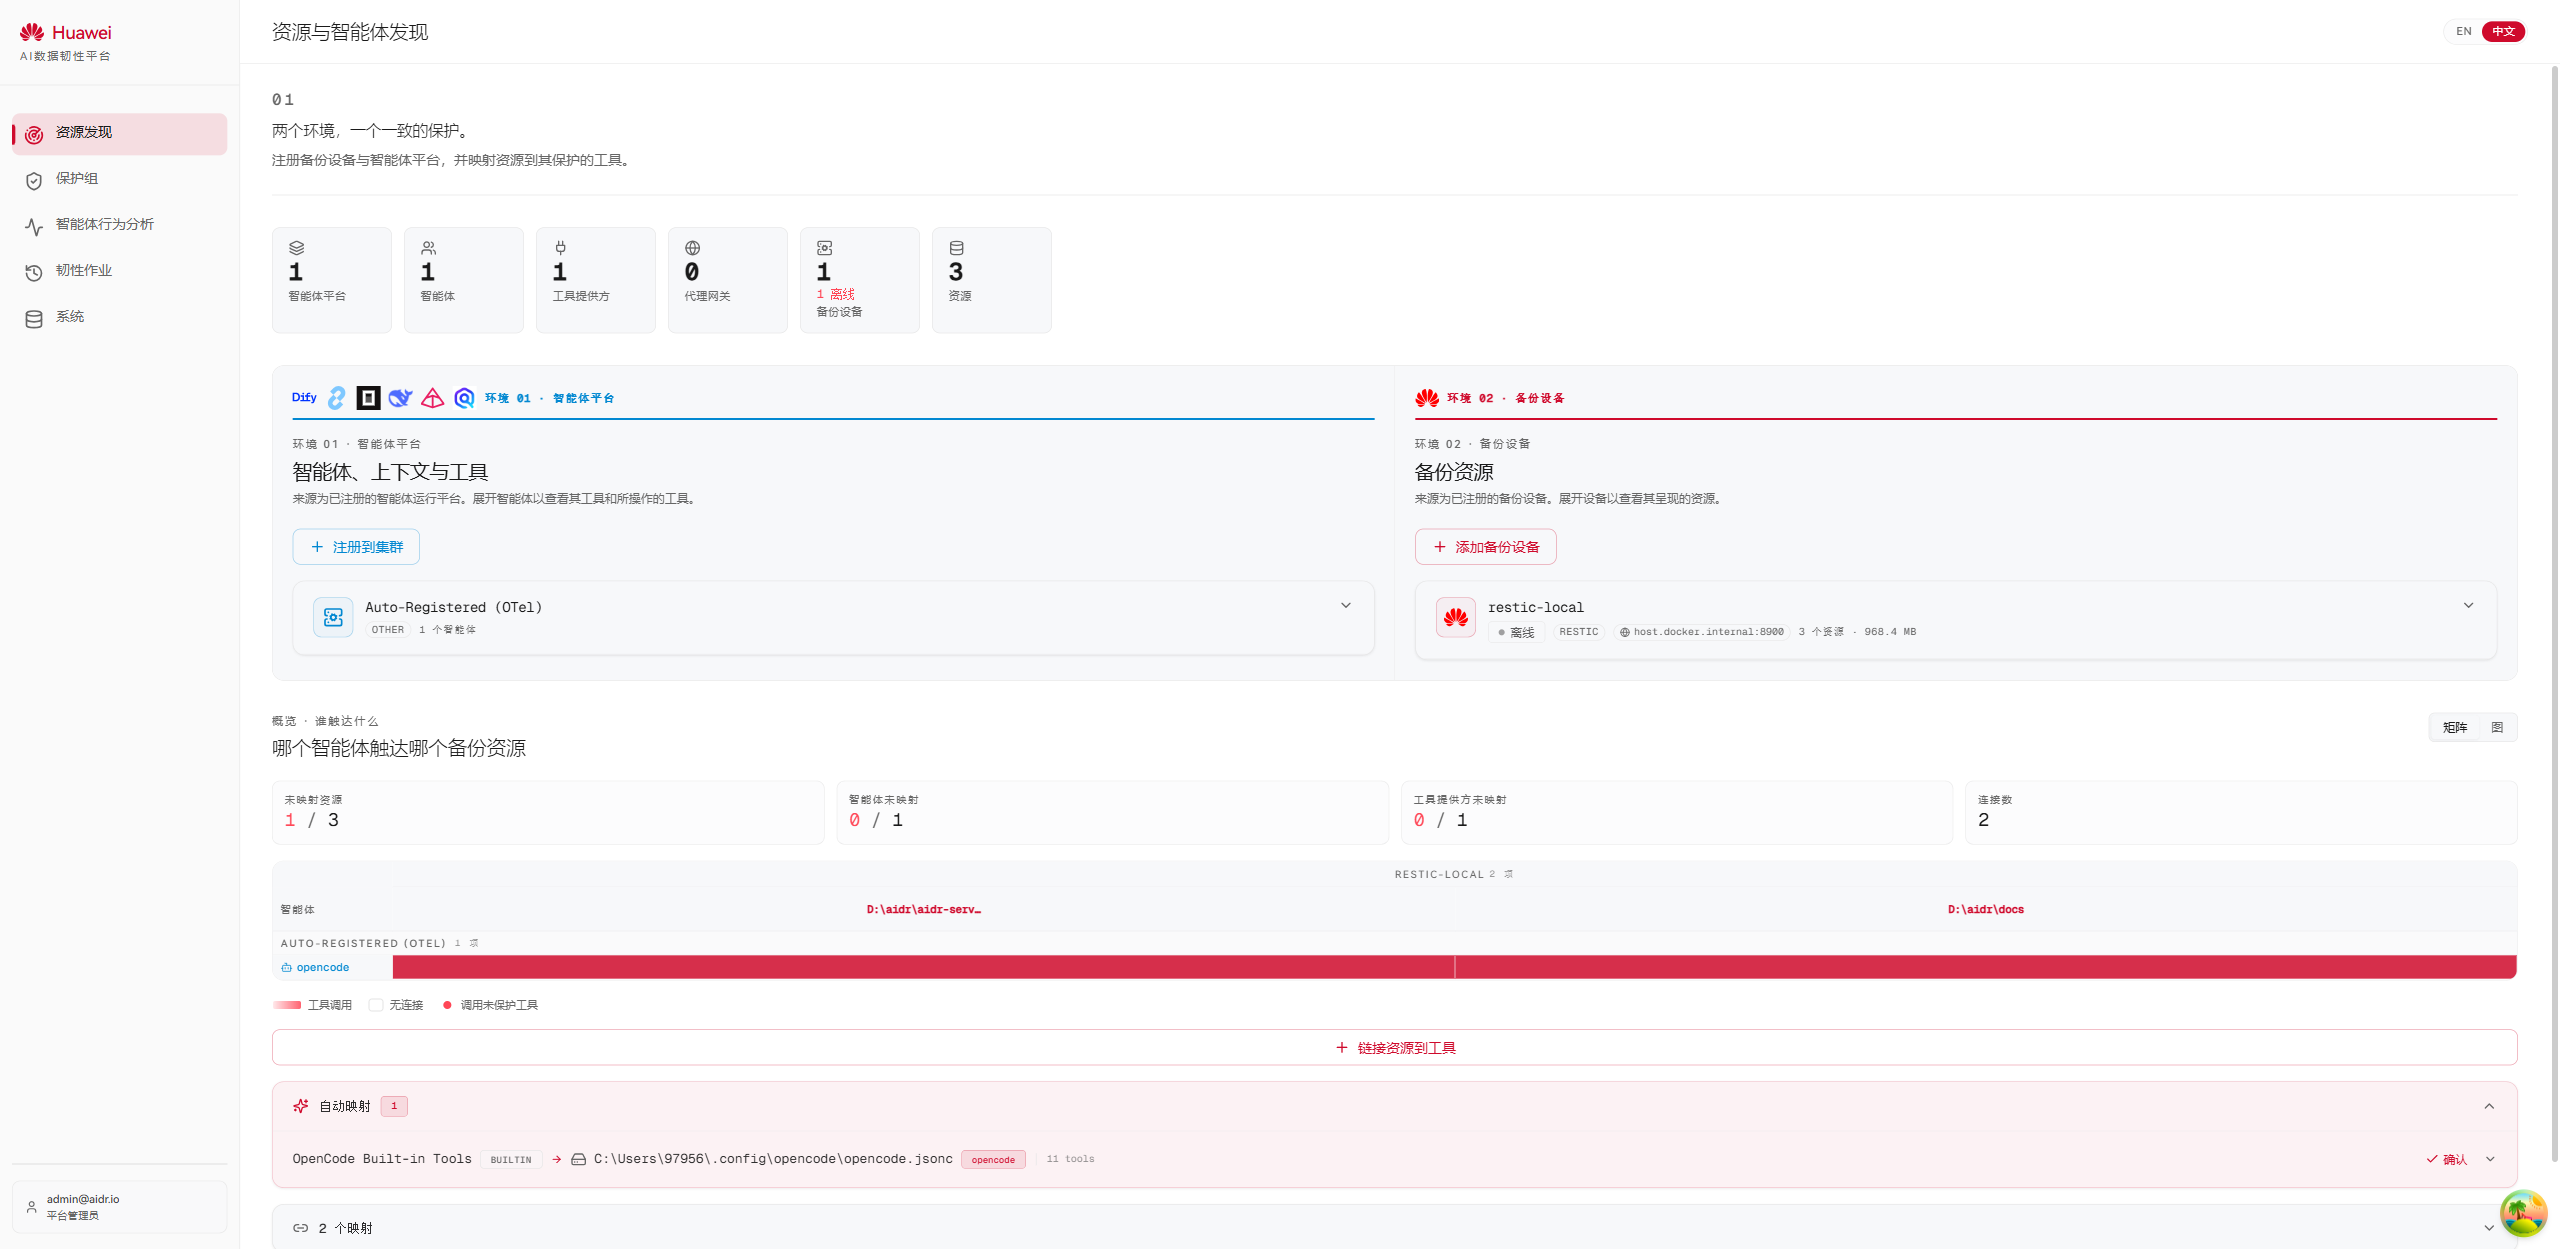
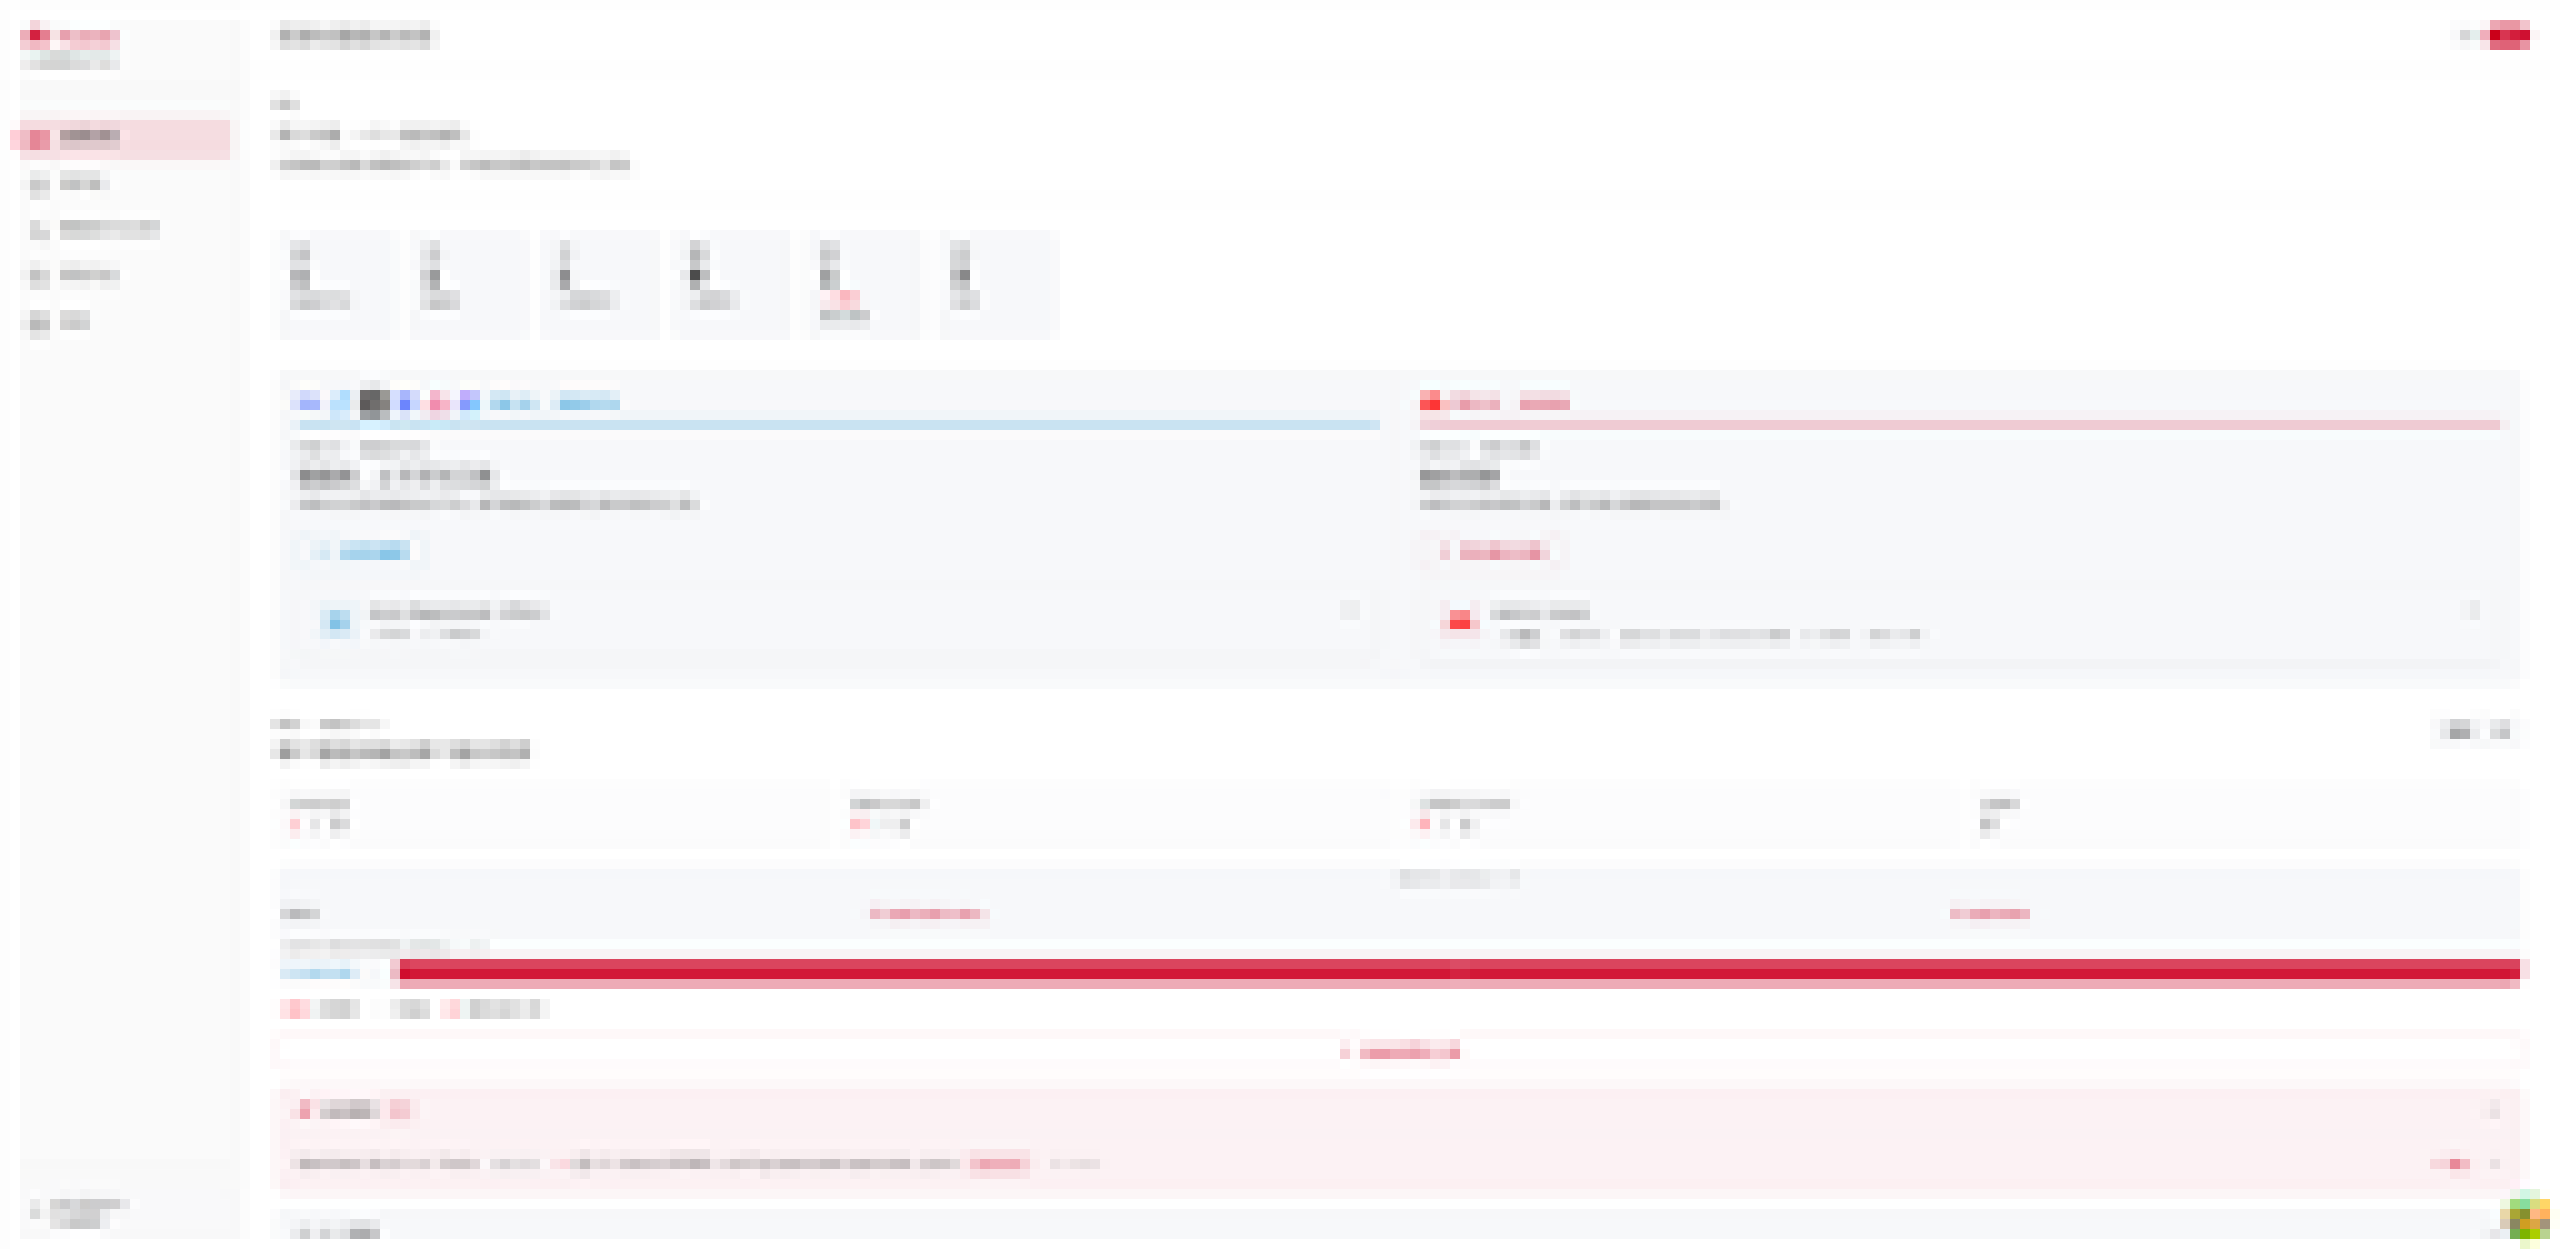
fix: de-identify AIDR project (remove vendor links, pixelate screenshots)
- pixelate all 7 AIDR screenshots (1/10 mosaic: layout visible, all
  text unreadable); disclaimer updated to note redaction
- ProjectDetailPage: drop product-style four-endpoint wording
- snapshot: anonymize OceanProtect/OceanCyber/vendor names across notes,
  docs and Java sources (consistent identifier renames); remove
  oceancyber_notes.md (vendor product research) and resume-bio.md
  (duplicate of the clean first-party resume data) from the agent's
  repo snapshot; personal employment bio stays as intentionally public

diff --git a/src/pages/AidrPage.tsx b/src/pages/AidrPage.tsx
@@ -222,7 +222,7 @@ export default function AidrPage() {
         </section>
 
         <footer className="ad-footer ad-container">
-          <p className="ad-disclaimer"><i aria-hidden="true" />页面截图来自本机运行的实例；数字（13 agents / 122 traces / 2113 spans / 3 保护组）均为 2026-10 实时数据，可溯源。</p>
+          <p className="ad-disclaimer"><i aria-hidden="true" />页面截图来自本机运行的实例，已整图脱敏（马赛克）处理；数字（13 agents / 122 traces / 2113 spans / 3 保护组）均为 2026-10 实时数据。</p>
           <Link className="ad-next-project" to="/projects/daily-portfolio"><span>NEXT PROJECT</span><strong>Daily Portfolio</strong><b aria-hidden="true">→</b></Link>
           <div className="ad-footer-meta"><span>AIDR / PROJECT FILE 01</span><span>DATA + CONTEXT, OR NOTHING.</span></div>
         </footer>

diff --git a/src/pages/ProjectDetailPage.tsx b/src/pages/ProjectDetailPage.tsx
@@ -62,7 +62,7 @@ const projects: Record<string, ProjectDetail> = {
         bullets: [
           "单机拉起 15 容器生产栈，排查三类环境级阻断并沉淀部署手册。",
           "打通 OpenCode × Langfuse 观测链路，设计 Tier-0 轨迹归属方案。",
-          "自研 restic 备份设备适配器，完成 OceanProtect 风格四端点契约。",
+          "自研 restic 备份设备适配器，完成企业级备份设备四端点契约。",
           "定位并修复序列化、DDL、归属 fallback 与 PostgreSQL 死表等四个静默失败问题。",
           "设计 kind 迁移流程、Kubernetes 清单差距分析与数据迁移路径。",
         ],
